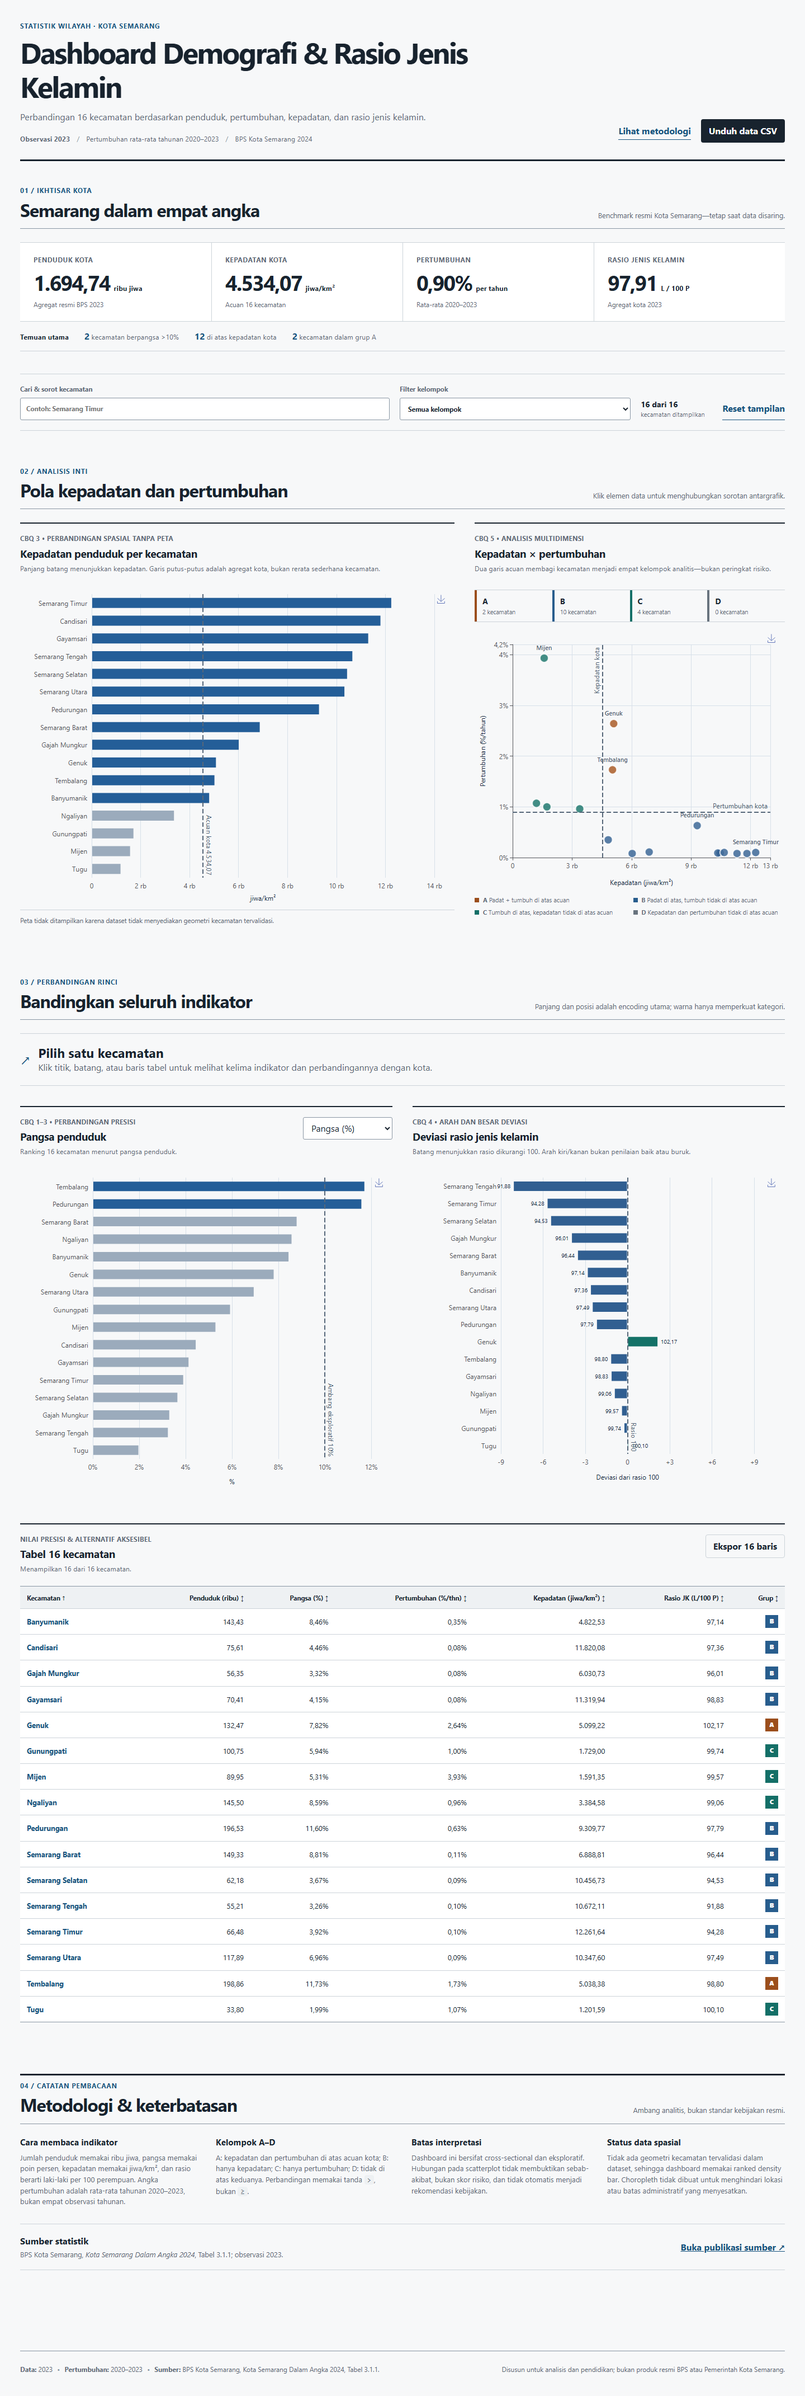
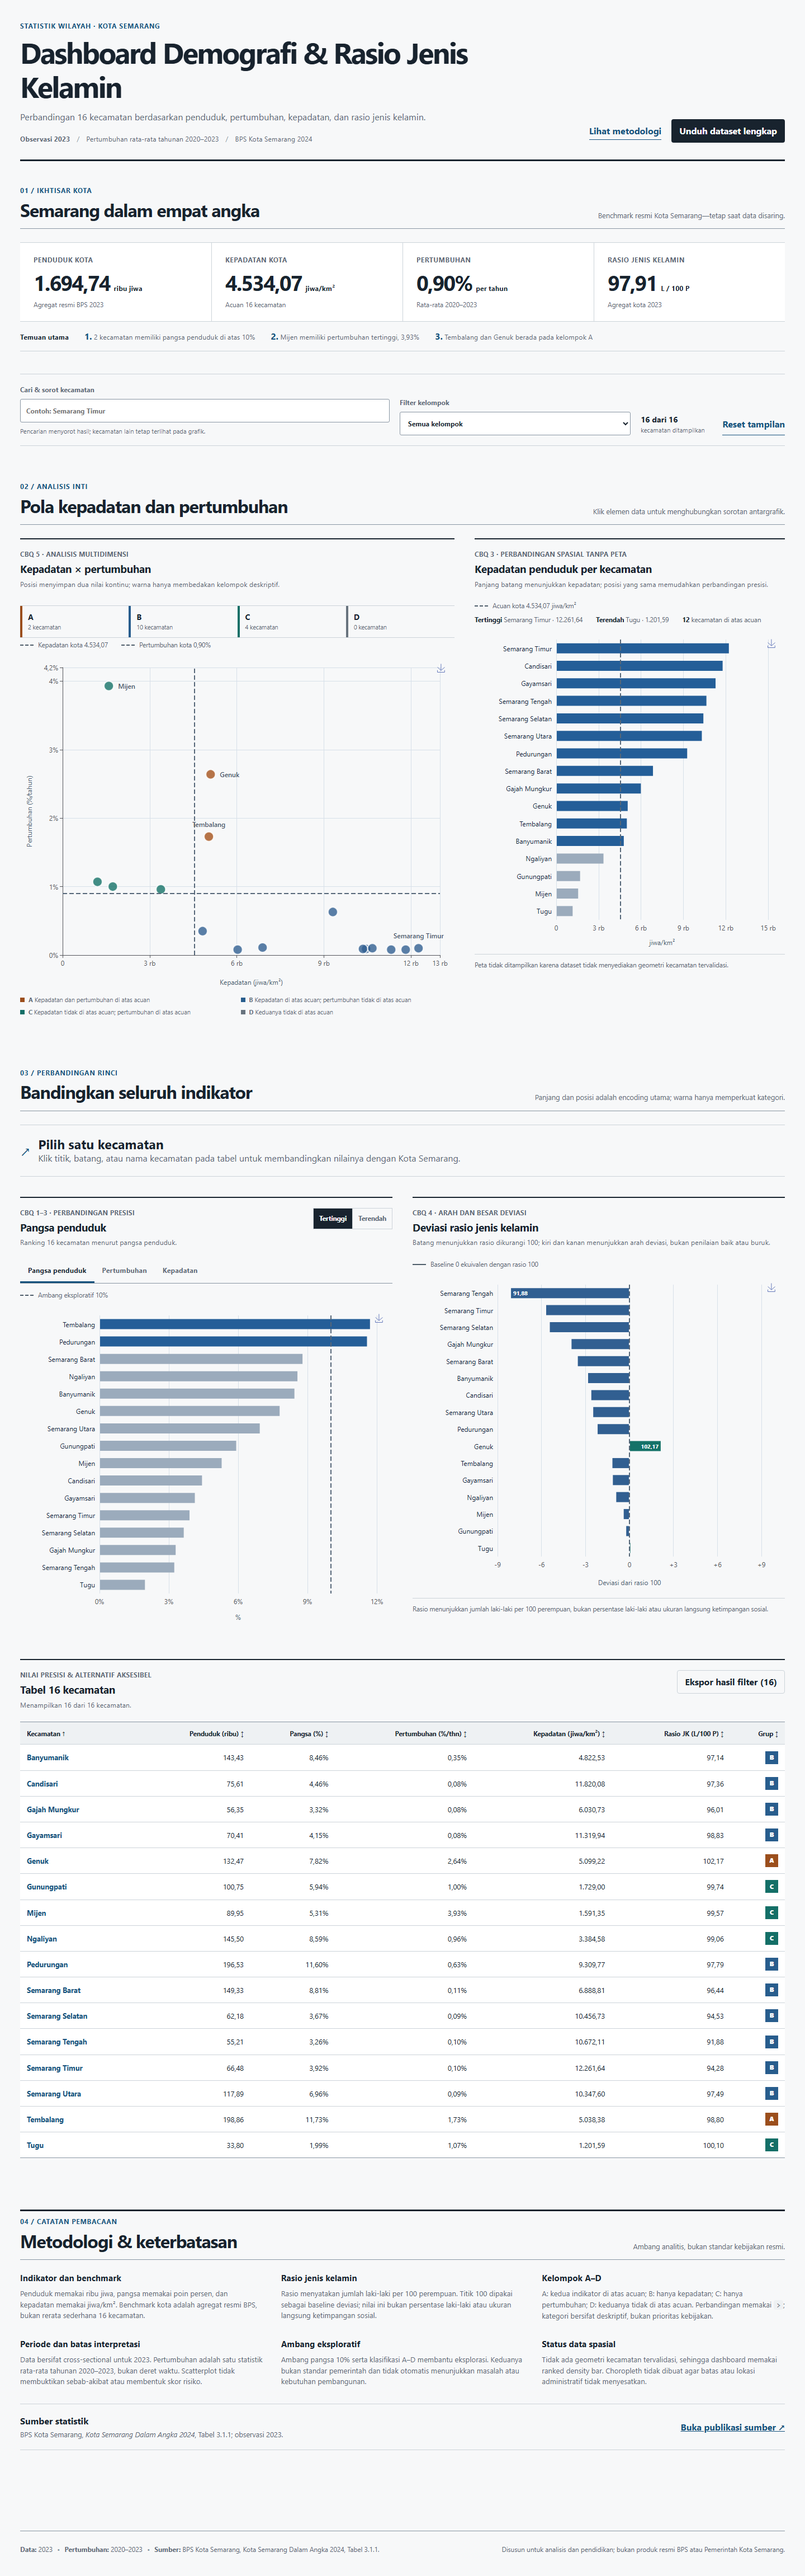
test(dashboard): expand interaction and export coverage

diff --git a/tests/App.test.jsx b/tests/App.test.jsx
@@ -3,12 +3,22 @@ import userEvent from '@testing-library/user-event'
 import { beforeEach, describe, expect, it, vi } from 'vitest'
 import App from '../src/App.jsx'
 
+const exportMocks = vi.hoisted(() => ({ complete: vi.fn(), filtered: vi.fn() }))
+
+vi.mock('../src/utils/export.js', () => ({
+  exportCompleteDataset: exportMocks.complete,
+  exportFilteredDistricts: exportMocks.filtered,
+}))
+
 vi.mock('../src/components/AccessibleChart.jsx', () => ({
   default: ({ ariaLabel }) => <div role="img" aria-label={ariaLabel} />,
 }))
 
 describe('dashboard application', () => {
-  beforeEach(() => render(<App />))
+  beforeEach(() => {
+    vi.clearAllMocks()
+    render(<App />)
+  })
 
   it('UI-01: shows four official scorecards', () => {
     const overview = screen.getByLabelText('Temuan terverifikasi seluruh kota').parentElement
@@ -19,8 +29,13 @@ describe('dashboard application', () => {
   })
 
   it('UI-02: switches comparison metric and keeps correct label', async () => {
-    await userEvent.selectOptions(screen.getByLabelText('Pilih metrik perbandingan'), 'growthRatePct')
+    await userEvent.click(within(screen.getByRole('group', { name: 'Pilih metrik perbandingan' })).getByRole('button', { name: 'Pertumbuhan' }))
     expect(screen.getByRole('heading', { name: 'Pertumbuhan penduduk' })).toBeInTheDocument()
+  })
+
+  it('derives executive findings from the canonical data', () => {
+    expect(screen.getByText(/Mijen memiliki pertumbuhan tertinggi, 3,93%/)).toBeInTheDocument()
+    expect(screen.getByText(/Tembalang dan Genuk berada pada kelompok A/)).toBeInTheDocument()
   })
 
   it('UI-04: group A filter leaves two table rows and preserves scorecards', async () => {
@@ -42,11 +57,36 @@ describe('dashboard application', () => {
     await userEvent.clear(search)
     await userEvent.type(search, 'Atlantis')
     expect(screen.getByText('Tidak ada kecamatan yang cocok')).toBeInTheDocument()
+    await userEvent.click(screen.getByRole('button', { name: 'Hapus pencarian' }))
+    expect(search).toHaveValue('')
+  })
+
+  it('shows district and city values side by side after selection', async () => {
+    await userEvent.click(screen.getByRole('button', { name: 'Mijen', exact: true }))
+    const detail = screen.getByRole('complementary')
+    expect(within(detail).getByRole('columnheader', { name: 'Kota Semarang' })).toBeInTheDocument()
+    expect(within(detail).getByText('3,93%')).toBeInTheDocument()
+    expect(within(detail).getByText('0,90%')).toBeInTheDocument()
+  })
+
+  it('keeps complete and filtered exports as separate actions', async () => {
+    await userEvent.click(screen.getByRole('button', { name: 'Unduh dataset lengkap' }))
+    expect(exportMocks.complete).toHaveBeenCalledWith(expect.arrayContaining([expect.objectContaining({ districtName: 'Mijen' })]))
+    expect(exportMocks.complete.mock.calls[0][0]).toHaveLength(16)
+    await userEvent.selectOptions(screen.getByLabelText('Filter kelompok'), 'A')
+    await userEvent.click(screen.getByRole('button', { name: 'Ekspor hasil filter (2)' }))
+    expect(exportMocks.filtered.mock.calls[0][0]).toHaveLength(2)
+  })
+
+  it('supports ascending and descending chart sorting', async () => {
+    const ascending = screen.getByRole('button', { name: 'Terendah' })
+    await userEvent.click(ascending)
+    expect(ascending).toHaveAttribute('aria-pressed', 'true')
   })
 
   it('UI-07: reset restores metric, rows, and filter', async () => {
     await userEvent.selectOptions(screen.getByLabelText('Filter kelompok'), 'A')
-    await userEvent.selectOptions(screen.getByLabelText('Pilih metrik perbandingan'), 'growthRatePct')
+    await userEvent.click(within(screen.getByRole('group', { name: 'Pilih metrik perbandingan' })).getByRole('button', { name: 'Pertumbuhan' }))
     fireEvent.click(screen.getByRole('button', { name: 'Reset' }))
     expect(screen.getByText('Menampilkan 16 dari 16 kecamatan.')).toBeInTheDocument()
     expect(screen.getByRole('heading', { name: 'Pangsa penduduk' })).toBeInTheDocument()

diff --git a/tests/e2e/dashboard.spec.js b/tests/e2e/dashboard.spec.js
@@ -11,6 +11,7 @@ test('answers core CBQs and links table selection', async ({ page }, testInfo) =
   await page.getByRole('button', { name: 'Mijen', exact: true }).click()
   await expect(page.getByRole('heading', { name: 'Mijen', exact: true })).toBeVisible()
   await expect(page.getByRole('complementary').getByText('3,93%')).toBeVisible()
+  await expect(page.getByRole('complementary').getByRole('columnheader', { name: 'Kota Semarang' })).toBeVisible()
   await page.getByRole('combobox', { name: 'Filter kelompok', exact: true }).selectOption('A')
   await expect(page.getByText('Menampilkan 2 dari 16 kecamatan.')).toBeVisible()
   await expect(page.getByText('1.694,74')).toBeVisible()
@@ -26,8 +27,27 @@ test('supports empty group D and search feedback without page overflow', async (
   await page.getByRole('button', { name: 'Reset', exact: true }).click()
   await page.getByLabel('Cari & sorot kecamatan').fill('Semarang Timur')
   await expect(page.getByText('Semarang Timur ditemukan')).toBeVisible()
+  await page.getByRole('button', { name: 'Hapus pencarian' }).click()
+  await expect(page.getByLabel('Cari & sorot kecamatan')).toHaveValue('')
   const overflow = await page.evaluate(() => document.documentElement.scrollWidth > document.documentElement.clientWidth)
   expect(overflow).toBe(false)
+})
+
+test('switches metrics, chart order, and keeps exports scoped correctly', async ({ page }) => {
+  await page.goto('/')
+  await page.getByRole('button', { name: 'Pertumbuhan', exact: true }).click()
+  await expect(page.getByRole('heading', { name: 'Pertumbuhan penduduk' })).toBeVisible()
+  await page.getByRole('button', { name: 'Terendah' }).click()
+  await expect(page.getByRole('button', { name: 'Terendah' })).toHaveAttribute('aria-pressed', 'true')
+
+  const completeDownload = page.waitForEvent('download')
+  await page.getByRole('button', { name: 'Unduh dataset lengkap' }).click()
+  expect((await completeDownload).suggestedFilename()).toBe('semarang_demografi_2023_all_16.csv')
+
+  await page.getByRole('combobox', { name: 'Filter kelompok', exact: true }).selectOption('A')
+  const filteredDownload = page.waitForEvent('download')
+  await page.getByRole('button', { name: 'Ekspor hasil filter (2)' }).click()
+  expect((await filteredDownload).suggestedFilename()).toBe('semarang_demografi_2023_filtered_2.csv')
 })
 
 test('has no automatically detectable WCAG A/AA violations', async ({ page }) => {

diff --git a/tests/selectors.test.js b/tests/selectors.test.js
@@ -1,6 +1,6 @@
 import { describe, expect, it } from 'vitest'
 import canonicalData from '../data/processed/semarang-2023.json'
-import { filterByQuadrant, findSearchMatch, searchTableRows, sortRecords } from '../src/data/selectors.js'
+import { createMetricConfig, filterByQuadrant, findSearchMatch, getDensitySummary, getGrowthExtrema, getKeyFindings, searchTableRows, sortRecords } from '../src/data/selectors.js'
 
 const districts = canonicalData.districts
 
@@ -25,5 +25,18 @@ describe('dashboard selectors', () => {
 
   it('sorts tied values deterministically by district name', () => {
     expect(sortRecords(districts, 'growthRatePct').slice(-3).map(({ districtName }) => districtName)).toEqual(['Candisari', 'Gajah Mungkur', 'Gayamsari'])
+    expect(sortRecords(districts, 'densityPerKm2', 'asc')[0].districtName).toBe('Tugu')
+  })
+
+  it('derives metric benchmarks from the official city aggregate', () => {
+    const config = createMetricConfig(canonicalData.cityBenchmark)
+    expect(config.growthRatePct.benchmark).toBe(0.9)
+    expect(config.densityPerKm2.benchmark).toBe(4534.07)
+  })
+
+  it('derives findings and extrema from records', () => {
+    expect(getGrowthExtrema(districts).highest[0]).toMatchObject({ districtName: 'Mijen', growthRatePct: 3.93 })
+    expect(getDensitySummary(districts)).toMatchObject({ highest: { districtName: 'Semarang Timur' }, lowest: { districtName: 'Tugu' }, aboveCityCount: 12 })
+    expect(getKeyFindings(districts)).toContain('Tembalang dan Genuk berada pada kelompok A')
   })
 })

diff --git a/tests/export.test.js b/tests/export.test.js
@@ -1,0 +1,25 @@
+import { describe, expect, it } from 'vitest'
+import canonicalData from '../data/processed/semarang-2023.json'
+import { buildDistrictsCsv } from '../src/utils/export.js'
+
+describe('CSV export', () => {
+  it('exports all numeric records with a UTF-8 BOM and stable columns', () => {
+    const csv = buildDistrictsCsv(canonicalData.districts)
+    const rows = csv.slice(1).split('\r\n')
+
+    expect(csv.startsWith('\uFEFF')).toBe(true)
+    expect(rows).toHaveLength(17)
+    expect(rows[0]).toBe('"district_name","population_thousand_2023","population_share_pct_2023","growth_rate_pct_per_year_2020_2023","density_people_per_km2_2023","sex_ratio_males_per_100_females_2023","analytical_quadrant"')
+    expect(rows[1]).toContain('"Mijen"')
+    expect(rows[1]).toContain('"3.93"')
+  })
+
+  it('exports only the supplied filtered subset', () => {
+    const groupA = canonicalData.districts.filter(({ quadrant }) => quadrant === 'A')
+    const rows = buildDistrictsCsv(groupA).slice(1).split('\r\n')
+
+    expect(rows).toHaveLength(3)
+    expect(rows.join('\n')).toContain('"Tembalang"')
+    expect(rows.join('\n')).toContain('"Genuk"')
+  })
+})
